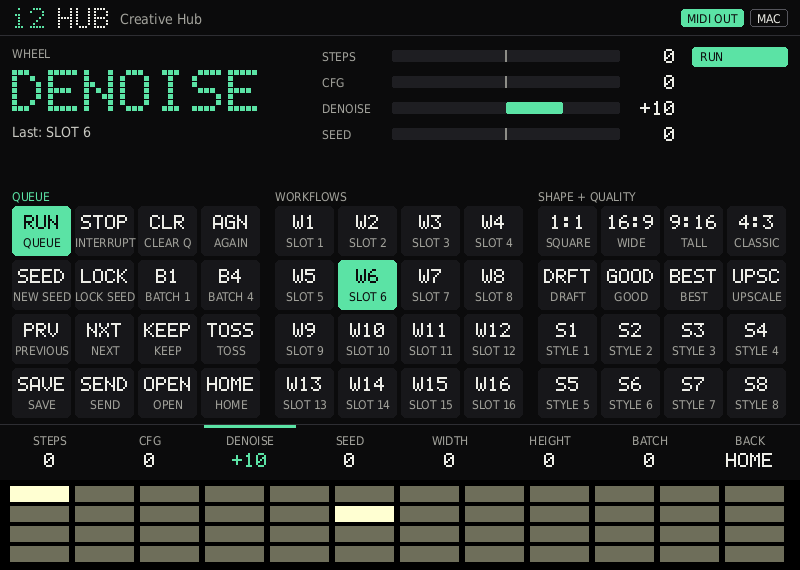
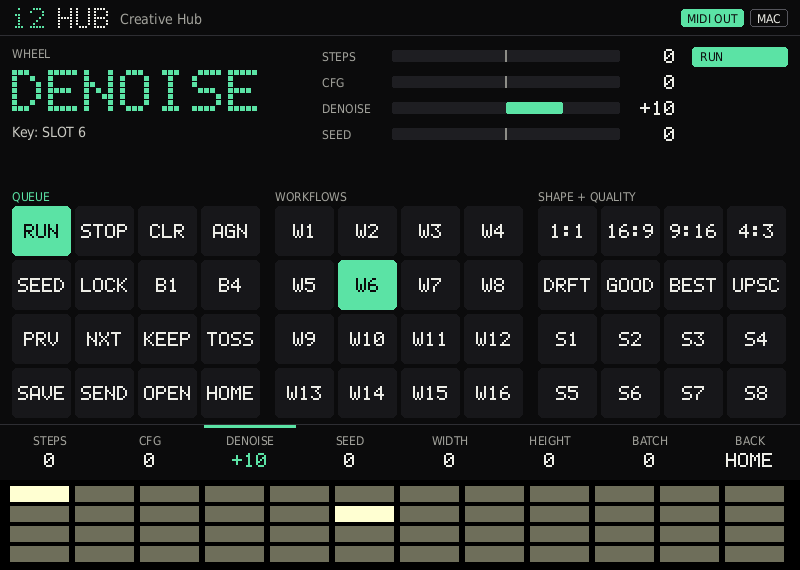
i2 DECK: fix black screen (layer order) and fit the frame in the display list
- the display composes controls newest-first, so the background layer was
  drawn on top of everything; layers are now created top-first
- the whole frame must fit one 8 KB display list: tiles are drawn as batched
  rectangles and show the key code only (the full name shows in the live
  band when a pad is pressed); the harness now budgets the whole frame

Claude-Session: https://claude.ai/code/session_01D7Kp5c7jT9W458uDukHG2S

diff --git a/core/interface/i2Deck/i2DeckApp.cpp b/core/interface/i2Deck/i2DeckApp.cpp
@@ -838,8 +838,18 @@ void DeckApp::drawHome(Gfx& g)
     g.color(kInk);
     g.dot(12, 50, 2, kLeft, "PICK A DECK");
     g.color(kGrey);
-    g.text(788, 56, kFont12, kRight, "Press the button under a deck.");
-    g.text(788, 74, kFont12, kRight, "Shift + button 8 comes back here.");
+    g.text(788, 66, kFont12, kRight, "Press the button under a deck.");
+
+    int16_t boxes[8 * 4];
+    for (uint8_t i = 0; i < 8; i++)
+    {
+        boxes[i * 4] = (int16_t)(i * 100 + 4);
+        boxes[i * 4 + 1] = 108;
+        boxes[i * 4 + 2] = (int16_t)(i * 100 + 96);
+        boxes[i * 4 + 3] = 416;
+    }
+    g.color(kTile);
+    g.rects(boxes, 8, 6);
 
     for (uint8_t i = 0; i < 8; i++)
     {
@@ -877,8 +887,6 @@ void DeckApp::drawHome(Gfx& g)
             st = "CMD / CTRL";
         }
         int16_t x0 = (int16_t)(i * 100 + 4), x1 = (int16_t)(x0 + 92);
-        g.color(key[0] ? kTile : kTileOff);
-        g.rect(x0, 108, x1, 416, 6);
         if (!key[0]) continue;
         g.color(c);
         g.rect(x0, 108, x1, 114, 2);
@@ -905,12 +913,12 @@ void DeckApp::drawLive(Gfx& g)
     {
         int f10 = (int)(freq * 10 + 0.5f);
         snprintf(big, sizeof(big), "%d.%d FM", f10 / 10, f10 % 10);
-        snprintf(sub, sizeof(sub), "%s", rds[0] ? rds : "No station text yet");
+        snprintf(sub, sizeof(sub), "%s", rds[0] ? rds : "Shift + station pad = store");
     }
     else
     {
         snprintf(big, sizeof(big), "%s", sel.used() ? sel.name : "--");
-        snprintf(sub, sizeof(sub), "%s%s", last[0] ? "Last: " : "Press a pad or turn the wheel", last);
+        snprintf(sub, sizeof(sub), "%s%s", last[0] ? "Key: " : "Press a pad to see its name", last);
     }
     g.color(kGrey);
     g.text(12, 46, kFont12, kLeft, radio ? "TUNED" : "WHEEL");
@@ -918,11 +926,6 @@ void DeckApp::drawLive(Gfx& g)
     g.dot(12, 70, 2, kLeft, big);
     g.color(0xC9C9C2);
     g.text(12, 124, kFont14, kLeft, sub);
-    if (radio)
-    {
-        g.color(kGrey);
-        g.text(12, 146, kFont12, kLeft, "Shift + a station pad stores this frequency.");
-    }
 
     // bars
     for (uint8_t i = 0; i < 4; i++)
@@ -983,13 +986,19 @@ void DeckApp::drawLive(Gfx& g)
         g.color(kTrack);
         g.rect(392, 176, 676, 177);
         g.color(accent);
+        int16_t bars[kHistory * 4];
+        int n = 0;
         for (uint8_t i = 0; i < kHistory; i++)
         {
             int16_t h = (int16_t)(history[i] * 70 / 75);
             if (h < 1) continue;
-            int16_t x = (int16_t)(392 + i * 5);
-            g.rect(x, (int16_t)(176 - h), (int16_t)(x + 4), 176);
+            int16_t* q = &bars[n++ * 4];
+            q[0] = (int16_t)(392 + i * 5);
+            q[1] = (int16_t)(176 - h);
+            q[2] = (int16_t)(q[0] + 4);
+            q[3] = 176;
         }
+        g.rects(bars, n);
     }
 
     // pages
@@ -1014,34 +1023,55 @@ void DeckApp::drawBlock(Gfx& g, uint8_t block)
     g.color(block == 0 ? accent : kGrey);
     g.text(bx, 189, kFont12, kLeft, page().block[block]);
 
-    for (uint8_t r = 0; r < 4; r++)
+    // Tiles are drawn in three batches (empty, key, held) to keep the frame
+    // small; see the display-list note in i2Gfx.h.
+    int16_t boxes[3][16 * 4];
+    int count[3] = { 0, 0, 0 };
+    for (uint8_t i = 0; i < 16; i++)
     {
-        for (uint8_t c = 0; c < 4; c++)
-        {
-            uint8_t padIndex = (uint8_t)(r * 12 + block * 4 + c);
-            const PadDef& d = page().pads[padIndex];
-            int16_t x0 = (int16_t)(bx + c * 63), y0 = (int16_t)(206 + r * 54);
-            int16_t x1 = (int16_t)(x0 + 59), y1 = (int16_t)(y0 + 50);
-            bool on = (held >> padIndex) & 1ULL;
-            g.color(!d.used() ? kTileOff : on ? accent : kTile);
-            g.rect(x0, y0, x1, y1, 5);
-            if (!d.used()) continue;
+        uint8_t padIndex = (uint8_t)((i / 4) * 12 + block * 4 + (i % 4));
+        const PadDef& d = page().pads[padIndex];
+        int kind = !d.used() ? 0 : ((held >> padIndex) & 1ULL) ? 2 : 1;
+        int16_t* q = &boxes[kind][count[kind]++ * 4];
+        q[0] = (int16_t)(bx + (i % 4) * 63);
+        q[1] = (int16_t)(206 + (i / 4) * 54);
+        q[2] = (int16_t)(q[0] + 59);
+        q[3] = (int16_t)(q[1] + 50);
+    }
+    const uint32_t fill[3] = { kTileOff, kTile, accent };
+    for (int kind = 0; kind < 3; kind++)
+    {
+        if (count[kind] == 0) continue;
+        g.color(fill[kind]);
+        g.rects(boxes[kind], count[kind], 5);
+    }
 
-            char label[16];
+    for (int pass = 0; pass < 2; pass++)
+    {
+        bool any = false;
+        for (uint8_t i = 0; i < 16; i++)
+        {
+            uint8_t padIndex = (uint8_t)((i / 4) * 12 + block * 4 + (i % 4));
+            const PadDef& d = page().pads[padIndex];
+            bool on = (held >> padIndex) & 1ULL;
+            if (!d.used() || (int)on != pass) continue;
+            if (!any)
+            {
+                g.color(pass ? kDark : kInk);
+                any = true;
+            }
+            char code[16];
             if (d.act == kActPreset && d.arg < 8)
             {
                 int f10 = (int)(presets[d.arg] * 10 + 0.5f);
-                snprintf(label, sizeof(label), "%d.%d", f10 / 10, f10 % 10);
+                snprintf(code, sizeof(code), "%d.%d", f10 / 10, f10 % 10);
             }
             else
             {
-                snprintf(label, sizeof(label), "%s", d.label);
+                snprintf(code, sizeof(code), "%s", d.mn);
             }
-            int16_t cx = (int16_t)(x0 + 30);
-            g.color(on ? kDark : kInk);
-            g.dot(cx, (int16_t)(y0 + 9), 0, kCenterX, d.mn);
-            g.color(on ? kDark : kGrey);
-            g.text(cx, (int16_t)(y0 + 29), kFont12, kCenterX, label);
+            int16_t cx = (int16_t)(bx + (i % 4) * 63 + 30);
+            g.dot(cx, (int16_t)(206 + (i / 4) * 54 + 18), 0, kCenterX, code);
         }
     }
 }

diff --git a/tools/i2deck/host/host.cpp b/tools/i2deck/host/host.cpp
@@ -68,6 +68,18 @@ class RecGfx : public Gfx
         snprintf(b, sizeof(b), "R %d %d %d %d %d\n", x0, y0, x1, y1, radius);
         add(b, 20, 20);
     }
+    void rects(const int16_t* xyxy, int n, uint8_t radius) override
+    {
+        if (n <= 0) return;
+        char b[64];
+        for (int i = 0; i < n; i++)
+        {
+            snprintf(b, sizeof(b), "R %d %d %d %d %d\n", xyxy[4 * i], xyxy[4 * i + 1], xyxy[4 * i + 2], xyxy[4 * i + 3], radius);
+            out += b;
+        }
+        dl += 12 + 8 * n;
+        cmd += 12 + 8 * n;
+    }
     void circle(int16_t cx, int16_t cy, int16_t r) override
     {
         char b[48];
@@ -93,7 +105,7 @@ class RecGfx : public Gfx
         out += "\n";
         int glyphs = 0;
         for (int i = 0; i < n; i++) glyphs += s[i] != ' ';
-        dl += 16 + 4 * glyphs;
+        dl += 16 + 8 * glyphs;
         cmd += 12 + ((n + 4) & ~3);
     }
     int16_t textWidth(uint8_t font, const char* s, int len) override
@@ -121,7 +133,7 @@ class RecGfx : public Gfx
         out += "\n";
         int glyphs = 0;
         for (int i = 0; i < n; i++) glyphs += s[i] != ' ';
-        dl += 16 + 4 * glyphs;
+        dl += 16 + 8 * glyphs;
         cmd += 12 + ((n + 4) & ~3);
     }
     void clip(int16_t x, int16_t y, int16_t w, int16_t h) override
@@ -360,7 +372,14 @@ int main(int argc, char** argv)
     uint32_t frames = 0;
     size_t worst[kLayerCount] = {};
     size_t worstCmd[kLayerCount] = {};
+    size_t current[kLayerCount] = {};
+    size_t worstFrame = 0;
     RecGfx g;
+    auto frameCheck = [&]() {
+        size_t sum = 0;
+        for (size_t c : current) sum += c;
+        if (sum > worstFrame) worstFrame = sum;
+    };
 
     auto advance = [&](int n) {
         for (int i = 0; i < n; i++)
@@ -373,9 +392,11 @@ int main(int argc, char** argv)
                 if (!app.dirty(layer)) continue;
                 g.reset();
                 app.draw(g, layer);
+                current[layer] = g.dl;
                 if (g.dl > worst[layer]) worst[layer] = g.dl;
                 if (g.cmd > worstCmd[layer]) worstCmd[layer] = g.cmd;
             }
+            frameCheck();
         }
     };
 
@@ -388,6 +409,7 @@ int main(int argc, char** argv)
             app.draw(g, layer);
             if (g.dl > worst[layer]) worst[layer] = g.dl;
             if (g.cmd > worstCmd[layer]) worstCmd[layer] = g.cmd;
+            current[layer] = g.dl;
             fprintf(f, "# layer %d dl=%zu cmd=%zu\n", layer, g.dl, g.cmd);
             fputs(g.out.c_str(), f);
         }
@@ -395,7 +417,10 @@ int main(int argc, char** argv)
         for (int p = 0; p < 48; p++) fprintf(f, "%d", sv.pads[p]);
         fprintf(f, "\n");
         fclose(f);
-        printf("shot %s\n", name);
+        frameCheck();
+        size_t sum = 0;
+        for (size_t c : current) sum += c;
+        printf("shot %-18s frame %zu B\n", name, sum);
     };
 
     char line[256];
@@ -509,6 +534,11 @@ int main(int argc, char** argv)
         printf("layer %d worst: display list %zu B (limit 8192), commands %zu B (limit 3800)\n", l, worst[l], worstCmd[l]);
         bad |= worst[l] > 8000 || worstCmd[l] > 3700;
     }
+    // The Tracker builds each frame from every visible control and stops
+    // adding controls at 8172 bytes. Stay well under, to leave room for the
+    // Tracker's own controls and for error in these estimates.
+    printf("whole frame worst: %zu B (budget 6000, hard limit 8172)\n", worstFrame);
+    bad |= worstFrame > 6000;
     if (io.stuck)
     {
         printf("!! %d key-up without key-down\n", io.stuck);

diff --git a/core/interface/i2Deck/i2Gfx.h b/core/interface/i2Deck/i2Gfx.h
@@ -53,6 +53,9 @@ class Gfx
     virtual void alpha(uint8_t a) = 0;
     // Filled rectangle, optional corner radius.
     virtual void rect(int16_t x0, int16_t y0, int16_t x1, int16_t y1, uint8_t radius = 0) = 0;
+    // Many filled rectangles of one colour: xyxy = x0, y0, x1, y1 per rect.
+    // Much cheaper in display memory than separate rect() calls.
+    virtual void rects(const int16_t* xyxy, int n, uint8_t radius = 0) = 0;
     // Filled circle.
     virtual void circle(int16_t cx, int16_t cy, int16_t r) = 0;
     // Many filled circles of one size and colour: xy = x0, y0, x1, y1, ...
@@ -126,8 +129,9 @@ class Services
 };
 
 // Each layer is its own display control, redrawn only when dirty. A layer's
-// drawing must fit the graphics chip's 4 KB command buffer (and its 8 KB
-// display-list slot); split busy screens across layers.
+// drawing must fit the graphics chip's 4 KB command buffer, and ALL layers
+// together must fit the chip's 8 KB display list (the whole frame). Text is
+// the expensive part: budget 8 bytes per character.
 constexpr uint8_t kLayerCount = 6; // 0 = background, 1-5 = foreground
 
 class Game

diff --git a/core/interface/i2Deck/i2Canvas.cpp b/core/interface/i2Deck/i2Canvas.cpp
@@ -89,6 +89,21 @@ void Ft812Gfx::rect(int16_t x0, int16_t y0, int16_t x1, int16_t y1, uint8_t radi
     API_END();
 }
 
+void Ft812Gfx::rects(const int16_t* xyxy, int n, uint8_t radius)
+{
+    if (n <= 0) return;
+    if (!spend((uint16_t)(12 + 8 * n))) return;
+    int16_t r = radius ? radius : 1;
+    API_LINE_WIDTH((uint16_t)(r * 16));
+    API_BEGIN(RECTS);
+    for (int i = 0; i < n; i++)
+    {
+        API_VERTEX2F((int16_t)(xyxy[4 * i] + r), (int16_t)(xyxy[4 * i + 1] + r));
+        API_VERTEX2F((int16_t)(xyxy[4 * i + 2] - 1 - r), (int16_t)(xyxy[4 * i + 3] - 1 - r));
+    }
+    API_END();
+}
+
 void Ft812Gfx::circle(int16_t cx, int16_t cy, int16_t r)
 {
     if (!spend(16)) return;

diff --git a/core/interface/i2Deck/gI2Deck.cpp b/core/interface/i2Deck/gI2Deck.cpp
@@ -4,8 +4,10 @@ using namespace i2arc;
 
 void cI2Deck::initDisplayControls()
 {
-    // One full-screen canvas per layer, drawn in order (background first).
-    for (uint8_t l = 0; l < kLayerCount; l++)
+    // One full-screen canvas per layer. The display draws controls in the
+    // reverse of the order they were created (newest first, oldest on top),
+    // so the top layer is created first and the background last.
+    for (int8_t l = kLayerCount - 1; l >= 0; l--)
     {
         strControlProperties prop;
         prop.colors = nullptr;

diff --git a/core/interface/i2Deck/i2Canvas.h b/core/interface/i2Deck/i2Canvas.h
@@ -23,6 +23,7 @@ class Ft812Gfx final : public Gfx
     virtual void color(uint32_t rgb) override;
     virtual void alpha(uint8_t a) override;
     virtual void rect(int16_t x0, int16_t y0, int16_t x1, int16_t y1, uint8_t radius = 0) override;
+    virtual void rects(const int16_t* xyxy, int n, uint8_t radius = 0) override;
     virtual void circle(int16_t cx, int16_t cy, int16_t r) override;
     virtual void points(const int16_t* xy, int n, int16_t r) override;
     virtual void fillBelow(const int16_t* xy, int n) override;

diff --git a/.github/README.md b/.github/README.md
@@ -28,9 +28,9 @@ Every deck uses the same layout:
 
 | Part of the screen | What it shows | What you press |
 |---|---|---|
-| **Key map** (bottom half) | The 48 pads as three 4x4 blocks, each key with a short code and a name | The pad in the same position. Lit pads have a job; a held pad lights up on screen |
+| **Key map** (bottom half) | The 48 pads as three 4x4 blocks, each key with a short code | The pad in the same position. Lit pads have a job; a held pad lights up on screen and its full name appears in the live band |
 | **Dial strip** (bottom edge) | Up to seven jobs for the jog wheel, plus PAGE | Screen buttons 1-7 pick the wheel's job. Button 8 turns the page |
-| **Live band** (top) | The wheel's current job, the last key sent, and how far each dial has moved | |
+| **Live band** (top) | The wheel's current job, the name of the last key pressed, and how far each dial has moved | |
 
 - **Shift** adds Shift to any pad or wheel step.
 - **Shift + button 8** goes back to the home screen.
@@ -117,7 +117,7 @@ i2 DECK is the start-up screen. To start in the normal Tracker, edit `i2/Deck/se
 
 ### Testing on a computer
 
-`tools/i2deck/host/` runs the firmware's own interface code on a PC with scripted input. It renders the screens to PNG, logs every key, note and radio command, fails if a key is left held, and checks each layer against the display chip's limits.
+`tools/i2deck/host/` runs the firmware's own interface code on a PC with scripted input. It renders the screens to PNG, logs every key, note and radio command, fails if a key is left held, and checks each layer and the whole frame against the display chip's limits.
 
 ```sh
 sh tools/i2deck/host/run.sh        # needs g++, Python 3 and Pillow; output in tools/i2deck/host/out/
